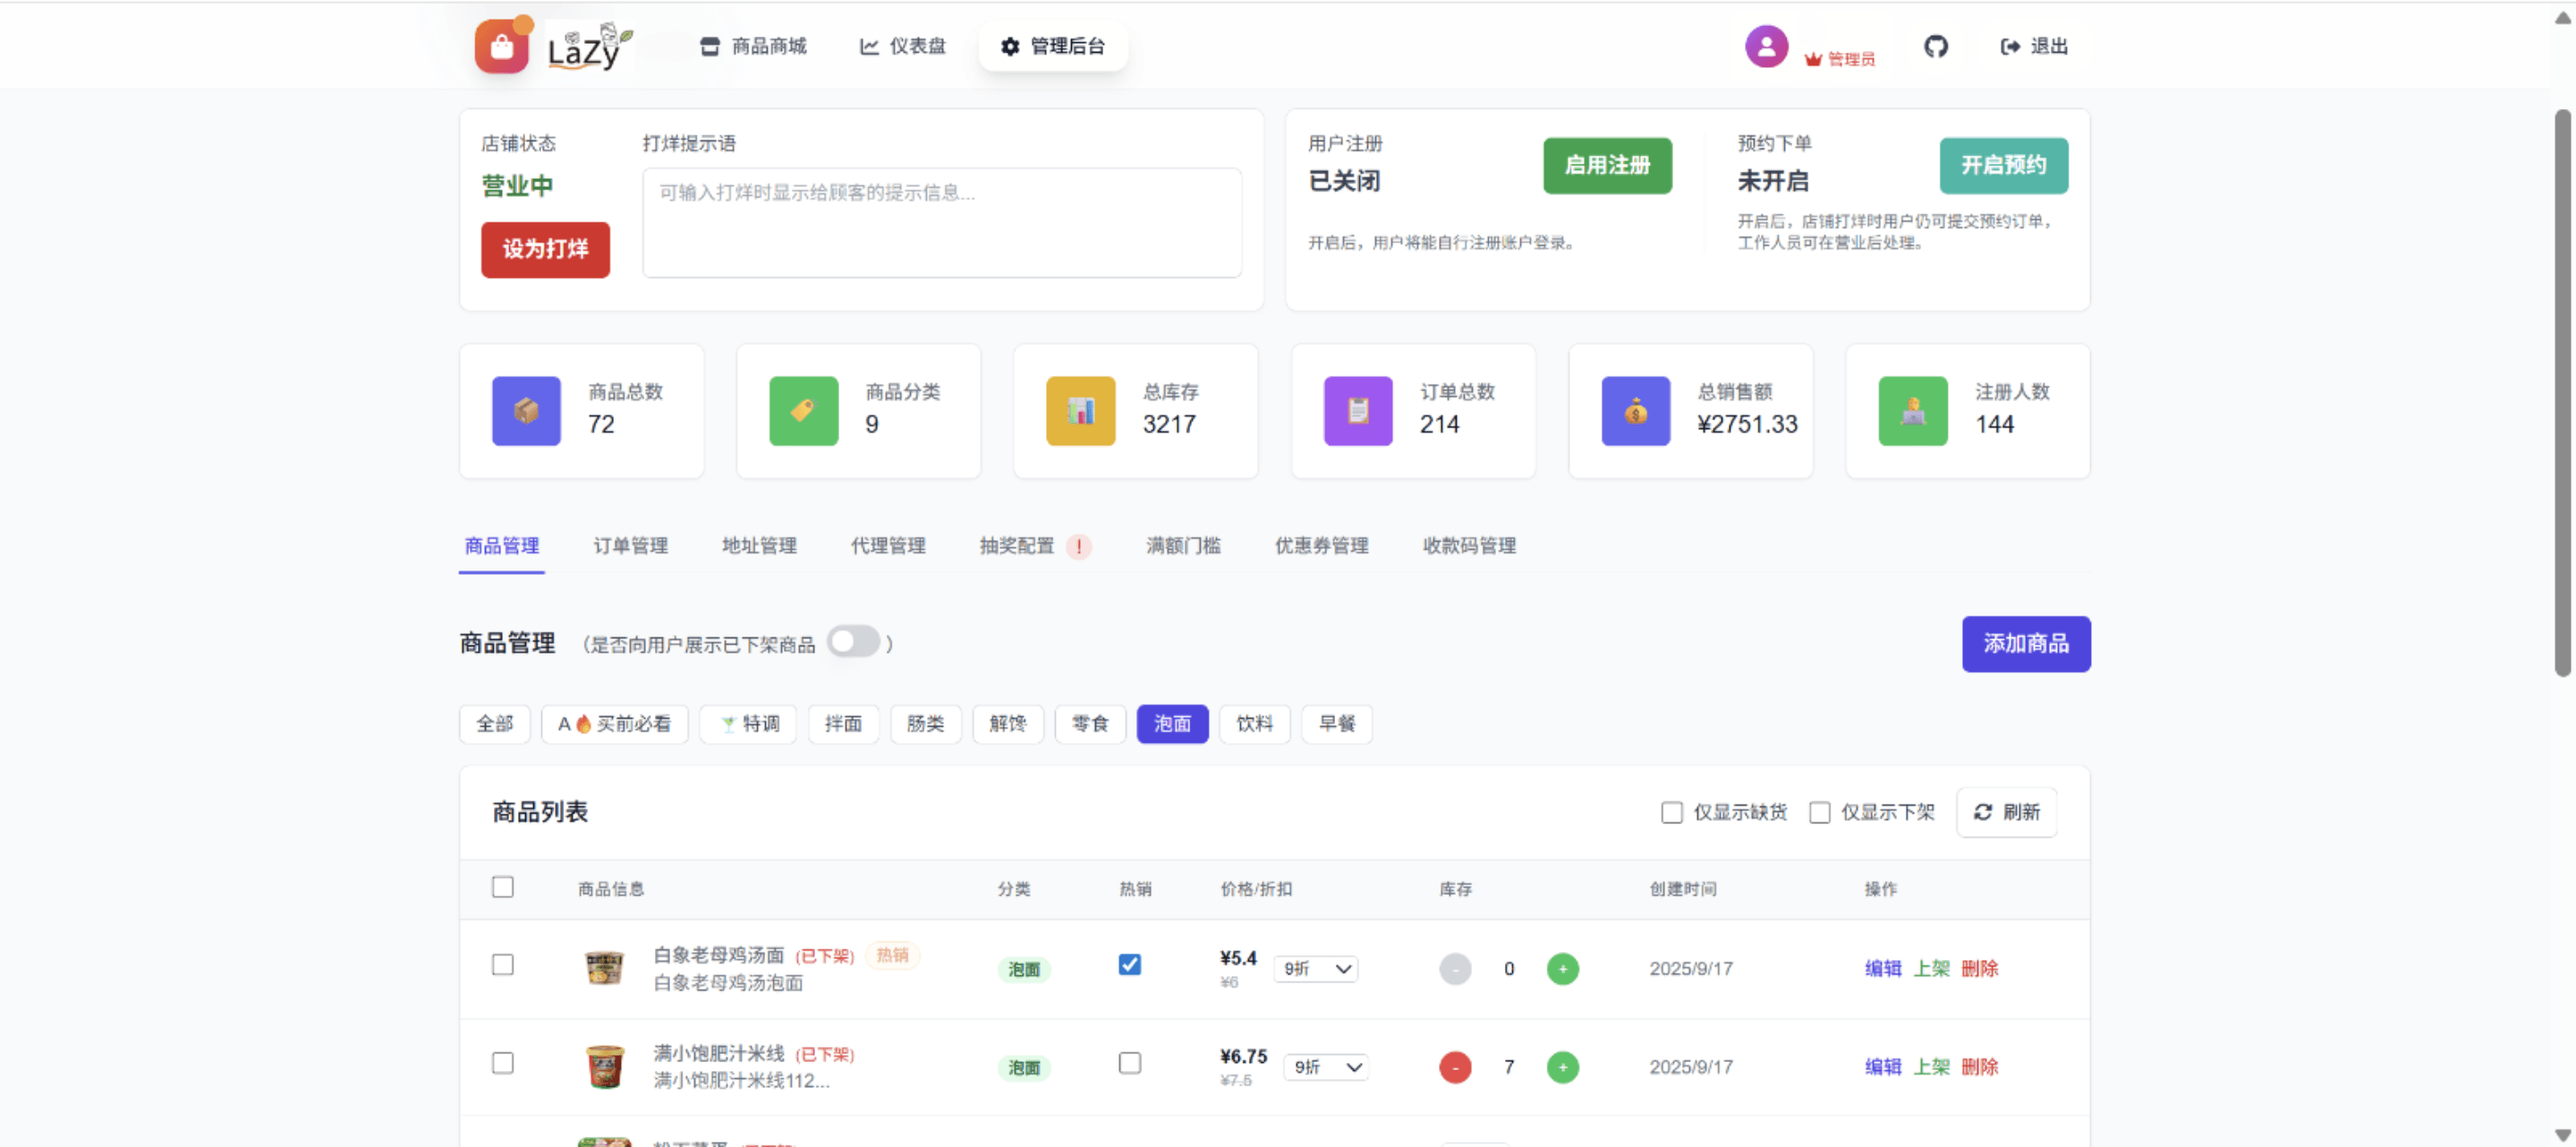
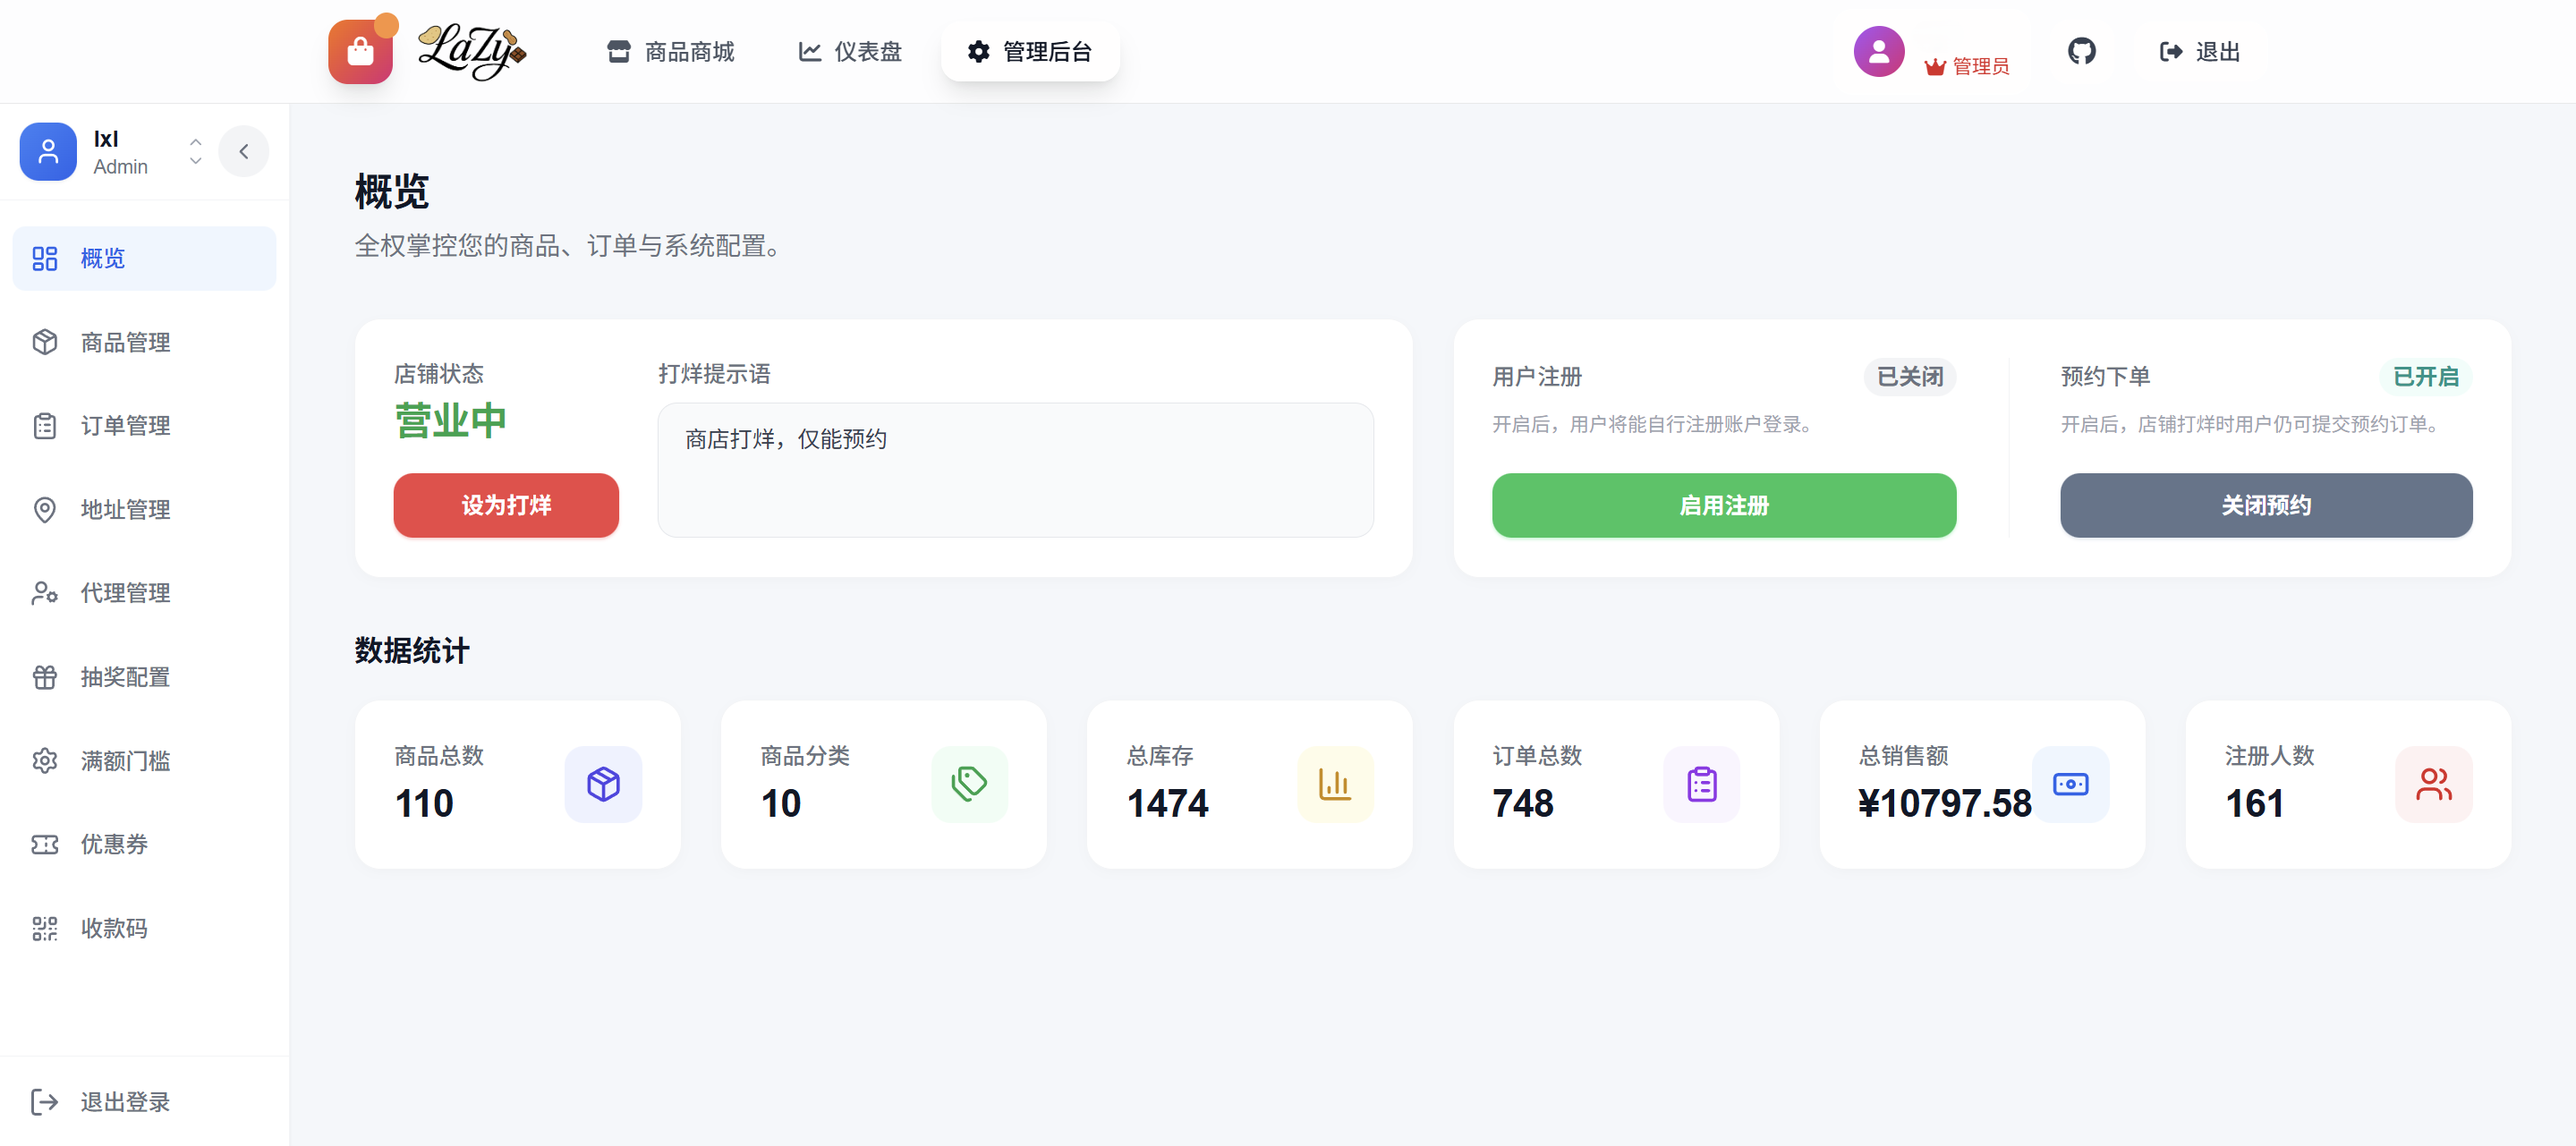
docs(assets): update image assets

diff --git a/README.md b/README.md
@@ -120,9 +120,9 @@
 <p>数据统计与业务分析</p>
 </td>
 <td width="50%">
-<h4>📦 商品管理</h4>
+<h4>📦 后台管理</h4>
 <img src="./assets/manage.png" alt="Product Management"/>
-<p>上架/编辑/库存管理</p>
+<p>管理商品、订单等</p>
 </td>
 </tr>
 </table>
